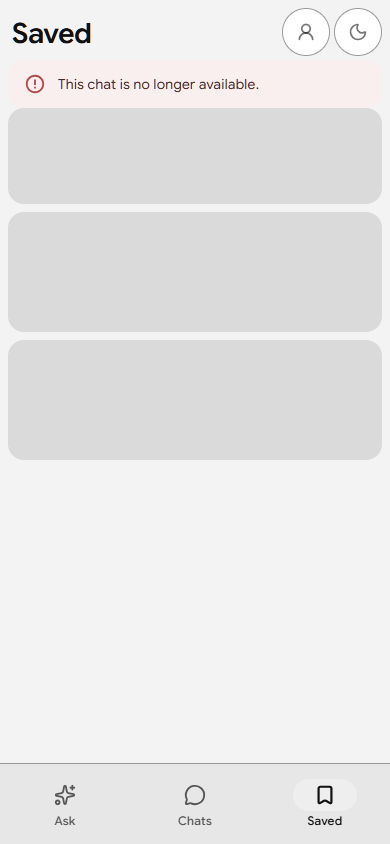
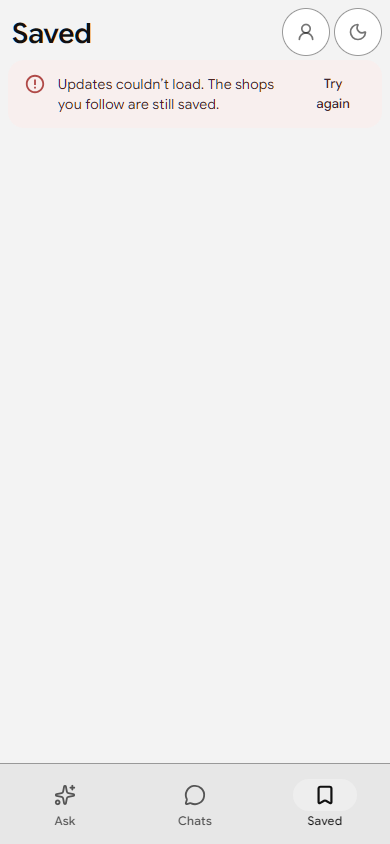
QA: customer navigation and Saved checked in all 15 languages; Q2-Q5 screenshots show the fixed states

diff --git a/tests/qa/community.spec.ts b/tests/qa/community.spec.ts
@@ -1,4 +1,5 @@
 import { test, expect, owner, publish, audit, evidence } from './support.js'
+import { LOCALES } from '../../src/i18n/locales.js'
 
 test('signed-out Saved and Chats offer recovery; keyboard navigation works', async ({ page }) => {
   await page.goto('/explore/saved')
@@ -143,4 +144,34 @@ test.describe('Tamil community', () => {
     await expect(page.getByText('Follow shops to see their news here')).toHaveCount(0)
     await audit(page)
   })
+})
+
+// Fixed Q2: every supported language, not only Tamil, carries the customer navigation and Saved.
+test('customer navigation and Saved follow each of the 15 languages', async ({
+  browser,
+  baseURL,
+}) => {
+  for (const locale of LOCALES.filter((l) => l !== 'en')) {
+    const context = await browser.newContext({ baseURL, locale })
+    try {
+      const page = await context.newPage()
+      await page.addInitScript(() => localStorage.setItem('chalkboard.customer.journey', 'done'))
+      await page.goto('/explore/saved')
+      await expect(page.locator('html')).toHaveAttribute(
+        'lang',
+        new RegExp(`^${locale.split('-')[0]}`),
+      )
+      await expect(page.getByRole('navigation', { name: 'Main' })).toHaveCount(0)
+      const nav = page.getByRole('navigation').last()
+      await expect(nav.getByRole('link')).toHaveCount(3)
+      for (const english of ['Ask', 'Chats', 'Saved'])
+        await expect(nav.getByRole('link', { name: english, exact: true })).toHaveCount(0)
+      await expect(page.getByRole('heading', { level: 1 })).not.toHaveText('Saved')
+      await expect(page.getByText('Follow shops to see their news here')).toHaveCount(0)
+      const fits = await page.evaluate(() => document.documentElement.scrollWidth <= innerWidth + 1)
+      expect(fits, `${locale} fits the viewport`).toBe(true)
+    } finally {
+      await context.close()
+    }
+  }
 })
